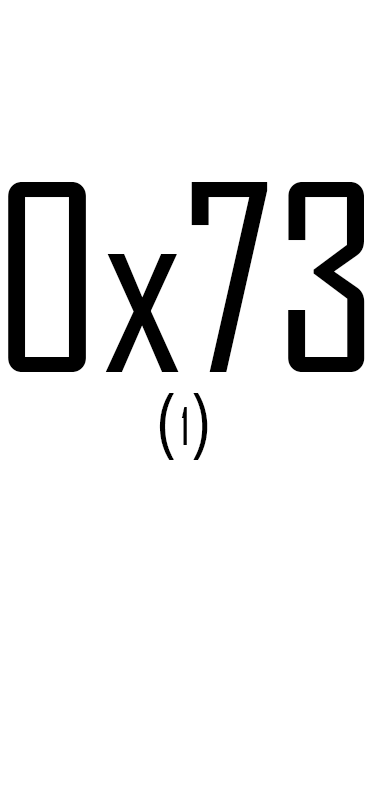
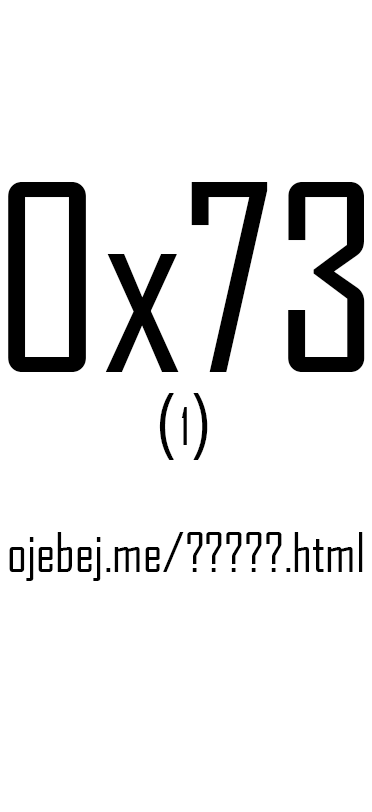
hotovson

Changed region(s): [[0.4731, 0.6466, 0.9758, 0.7081], [0.0, 0.6466, 0.4731, 0.7389]]

diff --git a/steam.html b/steam.html
@@ -1,0 +1,12 @@
+<!DOCTYPE html>
+<html lang="en">
+<head>
+    <meta charset="UTF-8">
+    <meta name="viewport" content="width=device-width, initial-scale=1.0">
+    <link rel="stylesheet" href="./css/style.css">
+    <title>?</title>
+</head>
+<body>
+    <img src="./imgs/steam.png" alt="">
+</body>
+</html>
